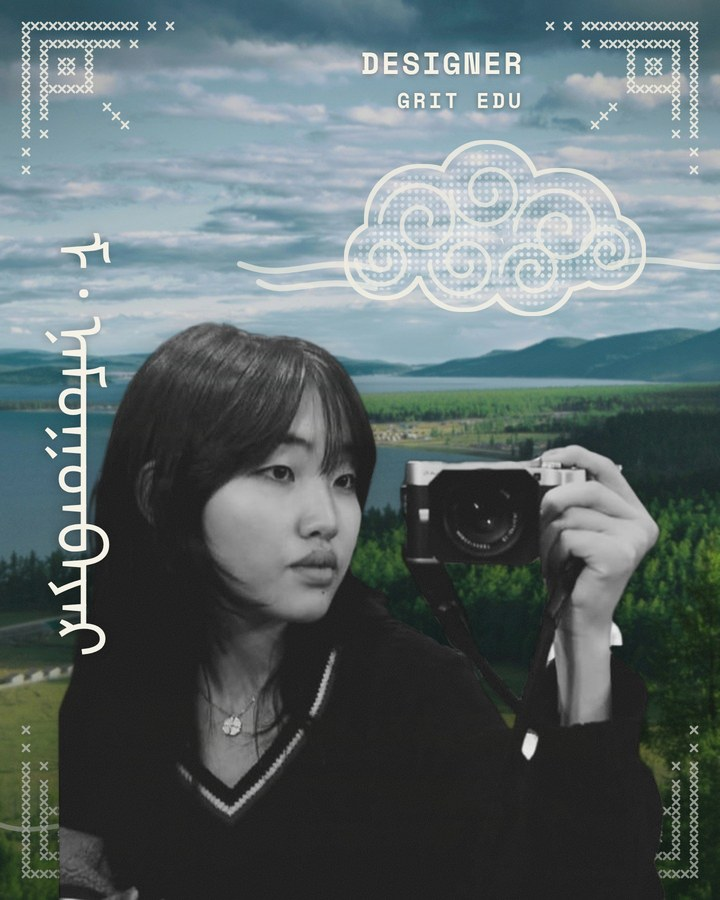
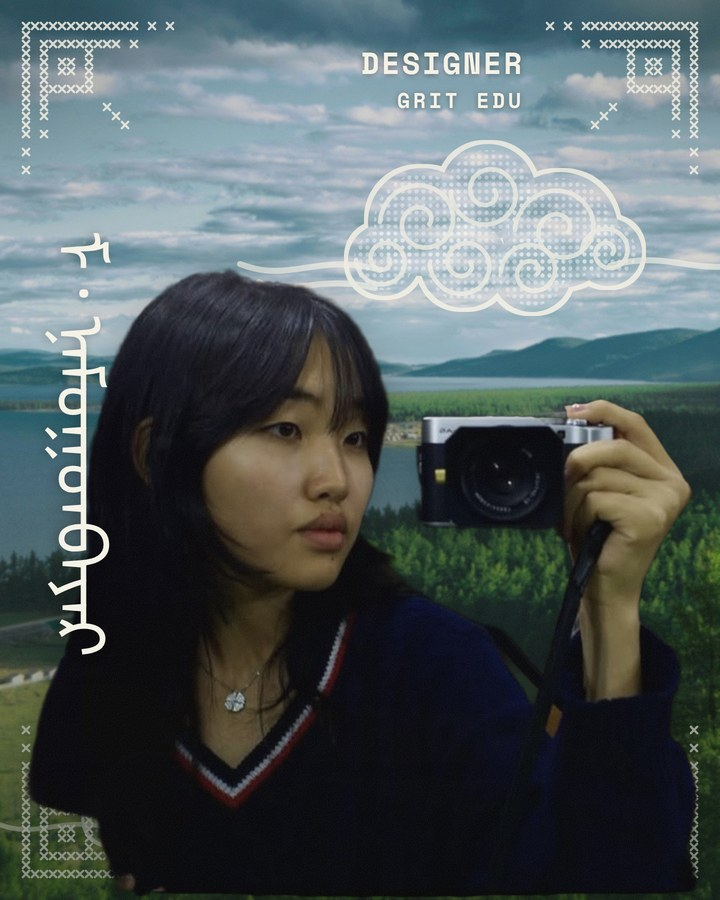
Team: new colour photos for Namuunbayar, Enkhgerel, Munkhdalai, Nomin; Tulga and Anar from speaker photos
Claude-Session: https://claude.ai/code/session_015w2YeaPuoH2UidzmstFP66

diff --git a/index.html b/index.html
@@ -347,27 +347,27 @@
           <p class="member__school">Founder of GRIT</p>
         </a>
         <a class="member" href="member.html?m=namuunbayar">
-          <div class="member__photo"><img src="assets/img/team-1.jpg?v=6" alt="M. Namuunbayar, Graphic Designer, GRIT EDU program" loading="lazy"></div>
+          <div class="member__photo"><img src="assets/img/team-1.jpg?v=8" alt="M. Namuunbayar, Graphic Designer, GRIT EDU program" loading="lazy"></div>
           <p class="member__name">M. Namuunbayar</p>
           <p class="member__school">Graphic Designer, GRIT EDU program</p>
         </a>
         <a class="member" href="member.html?m=anar">
-          <div class="member__photo"><img src="assets/img/team-2.jpg?v=6" alt="B. Anar, Teacher, GRIT EDU program" loading="lazy"></div>
+          <div class="member__photo"><img src="assets/img/team-2.jpg?v=8" alt="B. Anar, Teacher, GRIT EDU program" loading="lazy"></div>
           <p class="member__name">B. Anar</p>
           <p class="member__school">Teacher, GRIT EDU program</p>
         </a>
         <a class="member" href="member.html?m=munkhdalai">
-          <div class="member__photo"><img src="assets/img/team-3.jpg?v=6" alt="B. Munkhdalai, Teacher, GRIT EDU program" loading="lazy"></div>
+          <div class="member__photo"><img src="assets/img/team-3.jpg?v=8" alt="B. Munkhdalai, Teacher, GRIT EDU program" loading="lazy"></div>
           <p class="member__name">B. Munkhdalai</p>
           <p class="member__school">Teacher, GRIT EDU program</p>
         </a>
         <a class="member" href="member.html?m=enkhgerel">
-          <div class="member__photo"><img src="assets/img/team-4.jpg?v=6" alt="O. Enkhgerel, Manager, GRIT EDU program" loading="lazy"></div>
+          <div class="member__photo"><img src="assets/img/team-4.jpg?v=8" alt="O. Enkhgerel, Manager, GRIT EDU program" loading="lazy"></div>
           <p class="member__name">O. Enkhgerel</p>
           <p class="member__school">Manager, GRIT EDU program</p>
         </a>
         <a class="member" href="member.html?m=tulga">
-          <div class="member__photo"><img src="assets/img/team-5.jpg?v=6" alt="B. Tulga, Teacher, GRIT EDU program" loading="lazy"></div>
+          <div class="member__photo"><img src="assets/img/team-5.jpg?v=8" alt="B. Tulga, Teacher, GRIT EDU program" loading="lazy"></div>
           <p class="member__name">B. Tulga</p>
           <p class="member__school">Teacher, GRIT EDU program</p>
         </a>
@@ -379,7 +379,7 @@
         </a>
         -->
         <a class="member" href="member.html?m=nomin">
-          <div class="member__photo"><img src="assets/img/team-nomin.jpg?v=6" alt="B. Nomin, Teacher, GRIT EDU program" loading="lazy"></div>
+          <div class="member__photo"><img src="assets/img/team-nomin.jpg?v=8" alt="B. Nomin, Teacher, GRIT EDU program" loading="lazy"></div>
           <p class="member__name">B. Nomin</p>
           <p class="member__school">Teacher, GRIT EDU program</p>
         </a>

diff --git a/js/team.js b/js/team.js
@@ -11,35 +11,35 @@ const TEAM = {
   namuunbayar: {
     name: "M. Namuunbayar",
     role: "Graphic Designer",
-    photo: "assets/img/team-1.jpg?v=6",
+    photo: "assets/img/team-1.jpg?v=8",
     responsibilities: "Design and content",
     bio: [],
   },
   anar: {
     name: "B. Anar",
     role: "Teacher",
-    photo: "assets/img/team-2.jpg?v=6",
+    photo: "assets/img/team-2.jpg?v=8",
     responsibilities: "Teaching",
     bio: [],
   },
   munkhdalai: {
     name: "B. Munkhdalai",
     role: "English Teacher",
-    photo: "assets/img/team-3.jpg?v=6",
+    photo: "assets/img/team-3.jpg?v=8",
     responsibilities: "English, country information",
     bio: [],
   },
   enkhgerel: {
     name: "O. Enkhgerel",
     role: "Program Manager",
-    photo: "assets/img/team-4.jpg?v=6",
+    photo: "assets/img/team-4.jpg?v=8",
     responsibilities: "Organization, country information",
     bio: [],
   },
   tulga: {
     name: "B. Tulga",
     role: "English Teacher",
-    photo: "assets/img/team-5.jpg?v=6",
+    photo: "assets/img/team-5.jpg?v=8",
     responsibilities: "English, cooking",
     bio: [],
   },
@@ -53,7 +53,7 @@ const TEAM = {
   nomin: {
     name: "B. Nomin",
     role: "Teacher",
-    photo: "assets/img/team-nomin.jpg?v=6",
+    photo: "assets/img/team-nomin.jpg?v=8",
     responsibilities: "English, country information",
     bio: [],
   },

diff --git a/member.html b/member.html
@@ -57,7 +57,7 @@
 
   <main>
     <section class="container profile" id="profile">
-      <div class="profile__photo" data-reveal><img id="member-photo" src="assets/img/team-1.jpg?v=6" alt=""></div>
+      <div class="profile__photo" data-reveal><img id="member-photo" src="assets/img/team-1.jpg?v=8" alt=""></div>
       <div>
         <p class="eyebrow" data-reveal>GRIT team · GRIT EDU program</p>
         <h1 class="profile__name" id="member-name" data-reveal>M. Namuunbayar</h1>
